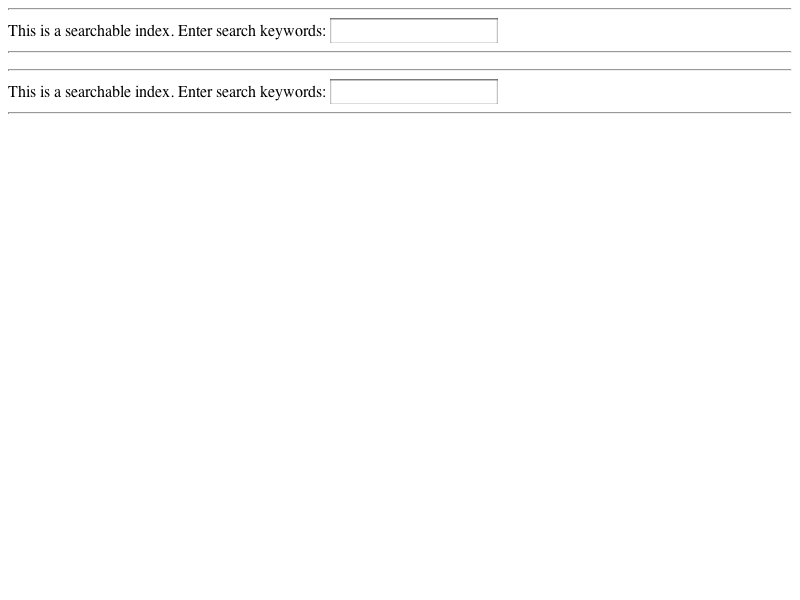
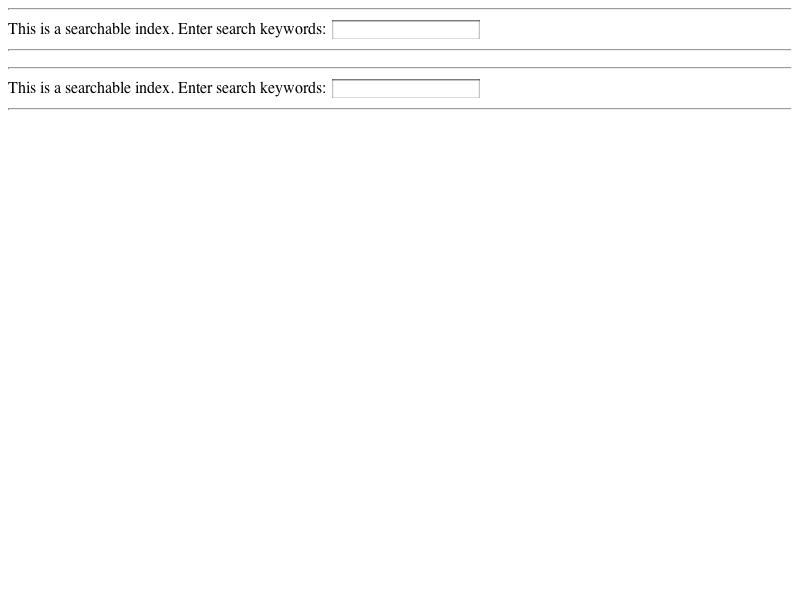
LayoutTests:
Reviewed by Darin.

        Revised expected results for an isindex element because of
        <rdar://problem/4463870> Switch to use new text field implementation for <isindex>
        Now the field is rendered as a textfield

        * fast/dom/isindex-002-expected.checksum:
        * fast/dom/isindex-002-expected.png:
        * fast/dom/isindex-002-expected.txt:

WebCore:

        Reviewed by Darin.

        Fixed <rdar://problem/4463870> Switch to use new text field implementation for <isindex>

        * bindings/objc/DOMHTML.mm:
        (-[DOMHTMLInputElement _isTextField]):
        moved isindex from the list of nonTextInputTypes to the list of textInputTypes
        * css/html4.css:
        added isindex to certain rules that applied to input fields
        * html/HTMLInputElement.cpp:
        (WebCore::HTMLInputElement::canHaveSelection):
        (WebCore::HTMLInputElement::selectionStart):
        (WebCore::HTMLInputElement::selectionEnd):
        (WebCore::HTMLInputElement::setSelectionStart):
        (WebCore::HTMLInputElement::setSelectionEnd):
        (WebCore::HTMLInputElement::select):
        (WebCore::HTMLInputElement::setSelectionRange):
        (WebCore::HTMLInputElement::createRenderer):
        for the 8 methods above, moved the case for isindex to the same case as text
        * html/HTMLInputElement.h:
        (WebCore::HTMLInputElement::isNonWidgetTextField):
        added isindex to this test
        * html/HTMLIsIndexElement.idl:
[…]

Changed region(s): [[0.0, 0.03, 0.9688, 0.21]]

diff --git a/WebCore/css/html4.css b/WebCore/css/html4.css
@@ -294,7 +294,7 @@ button {
     -webkit-appearance: button;
 }
 
-input, textarea, select, button {
+input, textarea, select, button, isindex {
     margin: 0__qem;
     font: -webkit-small-control;
     color: initial;
@@ -311,7 +311,7 @@ input[type="hidden"] {
     display: none
 }
 
-input {
+input, isindex {
     -webkit-appearance: textfield;
     padding: 1px;
     background-color: white;
@@ -519,7 +519,7 @@ html:focus, body:focus {
     outline: none
 }
   
-input:focus, textarea:focus {
+input:focus, textarea:focus, isindex:focus {
     outline-offset: -2px
 }
 

diff --git a/WebCore/html/HTMLInputElement.cpp b/WebCore/html/HTMLInputElement.cpp
@@ -449,7 +449,6 @@ bool HTMLInputElement::canHaveSelection() const
         case FILE:
         case HIDDEN:
         case IMAGE:
-        case ISINDEX:
         case RADIO:
         case RANGE:
         case RESET:
@@ -457,6 +456,7 @@ bool HTMLInputElement::canHaveSelection() const
             return false;
         case PASSWORD:
         case SEARCH:
+        case ISINDEX:
         case TEXT:
             return true;
     }
@@ -474,7 +474,6 @@ int HTMLInputElement::selectionStart() const
         case FILE:
         case HIDDEN:
         case IMAGE:
-        case ISINDEX:
         case RADIO:
         case RANGE:
         case RESET:
@@ -482,6 +481,7 @@ int HTMLInputElement::selectionStart() const
             break;
         case SEARCH:
             return static_cast<RenderLineEdit*>(renderer())->selectionStart();
+        case ISINDEX:
         case TEXT:
             if (document()->focusNode() != this && cachedSelStart >= 0)
                 return cachedSelStart;
@@ -506,7 +506,6 @@ int HTMLInputElement::selectionEnd() const
         case FILE:
         case HIDDEN:
         case IMAGE:
-        case ISINDEX:
         case RADIO:
         case RANGE:
         case RESET:
@@ -514,6 +513,7 @@ int HTMLInputElement::selectionEnd() const
             break;
         case SEARCH:
             return static_cast<RenderLineEdit*>(renderer())->selectionEnd();
+        case ISINDEX:
         case TEXT:
             if (document()->focusNode() != this && cachedSelEnd >= 0)
                 return cachedSelEnd;
@@ -538,7 +538,6 @@ void HTMLInputElement::setSelectionStart(int start)
         case FILE:
         case HIDDEN:
         case IMAGE:
-        case ISINDEX:
         case RADIO:
         case RANGE:
         case RESET:
@@ -547,6 +546,7 @@ void HTMLInputElement::setSelectionStart(int start)
         case SEARCH:
             static_cast<RenderLineEdit*>(renderer())->setSelectionStart(start);
             break;
+        case ISINDEX:
         case TEXT:
             static_cast<RenderTextControl*>(renderer())->setSelectionStart(start);
             break;
@@ -570,7 +570,6 @@ void HTMLInputElement::setSelectionEnd(int end)
         case FILE:
         case HIDDEN:
         case IMAGE:
-        case ISINDEX:
         case RADIO:
         case RANGE:
         case RESET:
@@ -579,6 +578,7 @@ void HTMLInputElement::setSelectionEnd(int end)
         case SEARCH:
             static_cast<RenderLineEdit*>(renderer())->setSelectionEnd(end);
             break;
+        case ISINDEX:
         case TEXT:
             static_cast<RenderTextControl*>(renderer())->setSelectionEnd(end);
             break;
@@ -601,7 +601,6 @@ void HTMLInputElement::select()
         case CHECKBOX:
         case HIDDEN:
         case IMAGE:
-        case ISINDEX:
         case RADIO:
         case RANGE:
         case RESET:
@@ -613,6 +612,7 @@ void HTMLInputElement::select()
         case SEARCH:
             static_cast<RenderLineEdit*>(renderer())->select();
             break;
+        case ISINDEX:
         case TEXT:
             static_cast<RenderTextControl*>(renderer())->select();
             break;
@@ -636,7 +636,6 @@ void HTMLInputElement::setSelectionRange(int start, int end)
         case FILE:
         case HIDDEN:
         case IMAGE:
-        case ISINDEX:
         case RADIO:
         case RANGE:
         case RESET:
@@ -645,6 +644,7 @@ void HTMLInputElement::setSelectionRange(int start, int end)
         case SEARCH:
             static_cast<RenderLineEdit*>(renderer())->setSelectionRange(start, end);
             break;
+        case ISINDEX:
         case TEXT:
             static_cast<RenderTextControl*>(renderer())->setSelectionRange(start, end);
             break;
@@ -869,11 +869,11 @@ RenderObject *HTMLInputElement::createRenderer(RenderArena *arena, RenderStyle *
             break;
         case IMAGE:
             return new (arena) RenderImage(this);
-        case ISINDEX:
         case SEARCH:
             return new (arena) RenderLineEdit(this);
         case RANGE:
             return new (arena) DeprecatedSlider(this);
+        case ISINDEX:
         case TEXT:
             return new (arena) RenderTextControl(this, false);
         case PASSWORD:

diff --git a/WebCore/bindings/objc/DOMHTML.mm b/WebCore/bindings/objc/DOMHTML.mm
@@ -2350,13 +2350,13 @@ static NSView *viewForElement(DOMElement *element)
         return YES;
     
     if (textInputTypes == nil)
-        textInputTypes = [[NSSet alloc] initWithObjects:@"text", @"password", @"search", nil];
+        textInputTypes = [[NSSet alloc] initWithObjects:@"text", @"password", @"search", @"isindex", nil];
     
     BOOL isText = [textInputTypes containsObject:[fieldType lowercaseString]];
     
 #ifndef NDEBUG
     if (nonTextInputTypes == nil)
-        nonTextInputTypes = [[NSSet alloc] initWithObjects:@"isindex", @"checkbox", @"radio", @"submit", @"reset", @"file", @"hidden", @"image", @"button", @"range", nil];
+        nonTextInputTypes = [[NSSet alloc] initWithObjects:@"checkbox", @"radio", @"submit", @"reset", @"file", @"hidden", @"image", @"button", @"range", nil];
     
     // Catch cases where a new input type has been added that's not in these lists.
     ASSERT(isText || [nonTextInputTypes containsObject:[fieldType lowercaseString]]);

diff --git a/WebCore/html/HTMLInputElement.h b/WebCore/html/HTMLInputElement.h
@@ -85,7 +85,7 @@ public:
     bool isTextField() const { return m_type == TEXT || m_type == PASSWORD || m_type == SEARCH; }
     // FIXME: When other text fields switch to the non-NSView implementation, we should add them here.
     // Once all text fields switch over, we should merge this with isTextField.
-    bool isNonWidgetTextField() const { return m_type == TEXT || (m_type == PASSWORD /* FIXME: Remove this style check when converting password */ 
+    bool isNonWidgetTextField() const { return m_type == TEXT || m_type == ISINDEX || (m_type == PASSWORD /* FIXME: Remove this style check when converting password */ 
                                         && renderer() && renderer()->style()->appearance() == TextFieldAppearance); }
 
     bool checked() const { return m_checked; }

diff --git a/WebCore/rendering/RenderLineEdit.cpp b/WebCore/rendering/RenderLineEdit.cpp
@@ -50,9 +50,6 @@ RenderLineEdit::RenderLineEdit(HTMLInputElement* element)
         case HTMLInputElement::SEARCH:
             type = TextField::Search;
             break;
-        case HTMLInputElement::ISINDEX:
-            type = TextField::Normal;
-            break;
         default:
             ASSERT(false);
             type = TextField::Normal;
